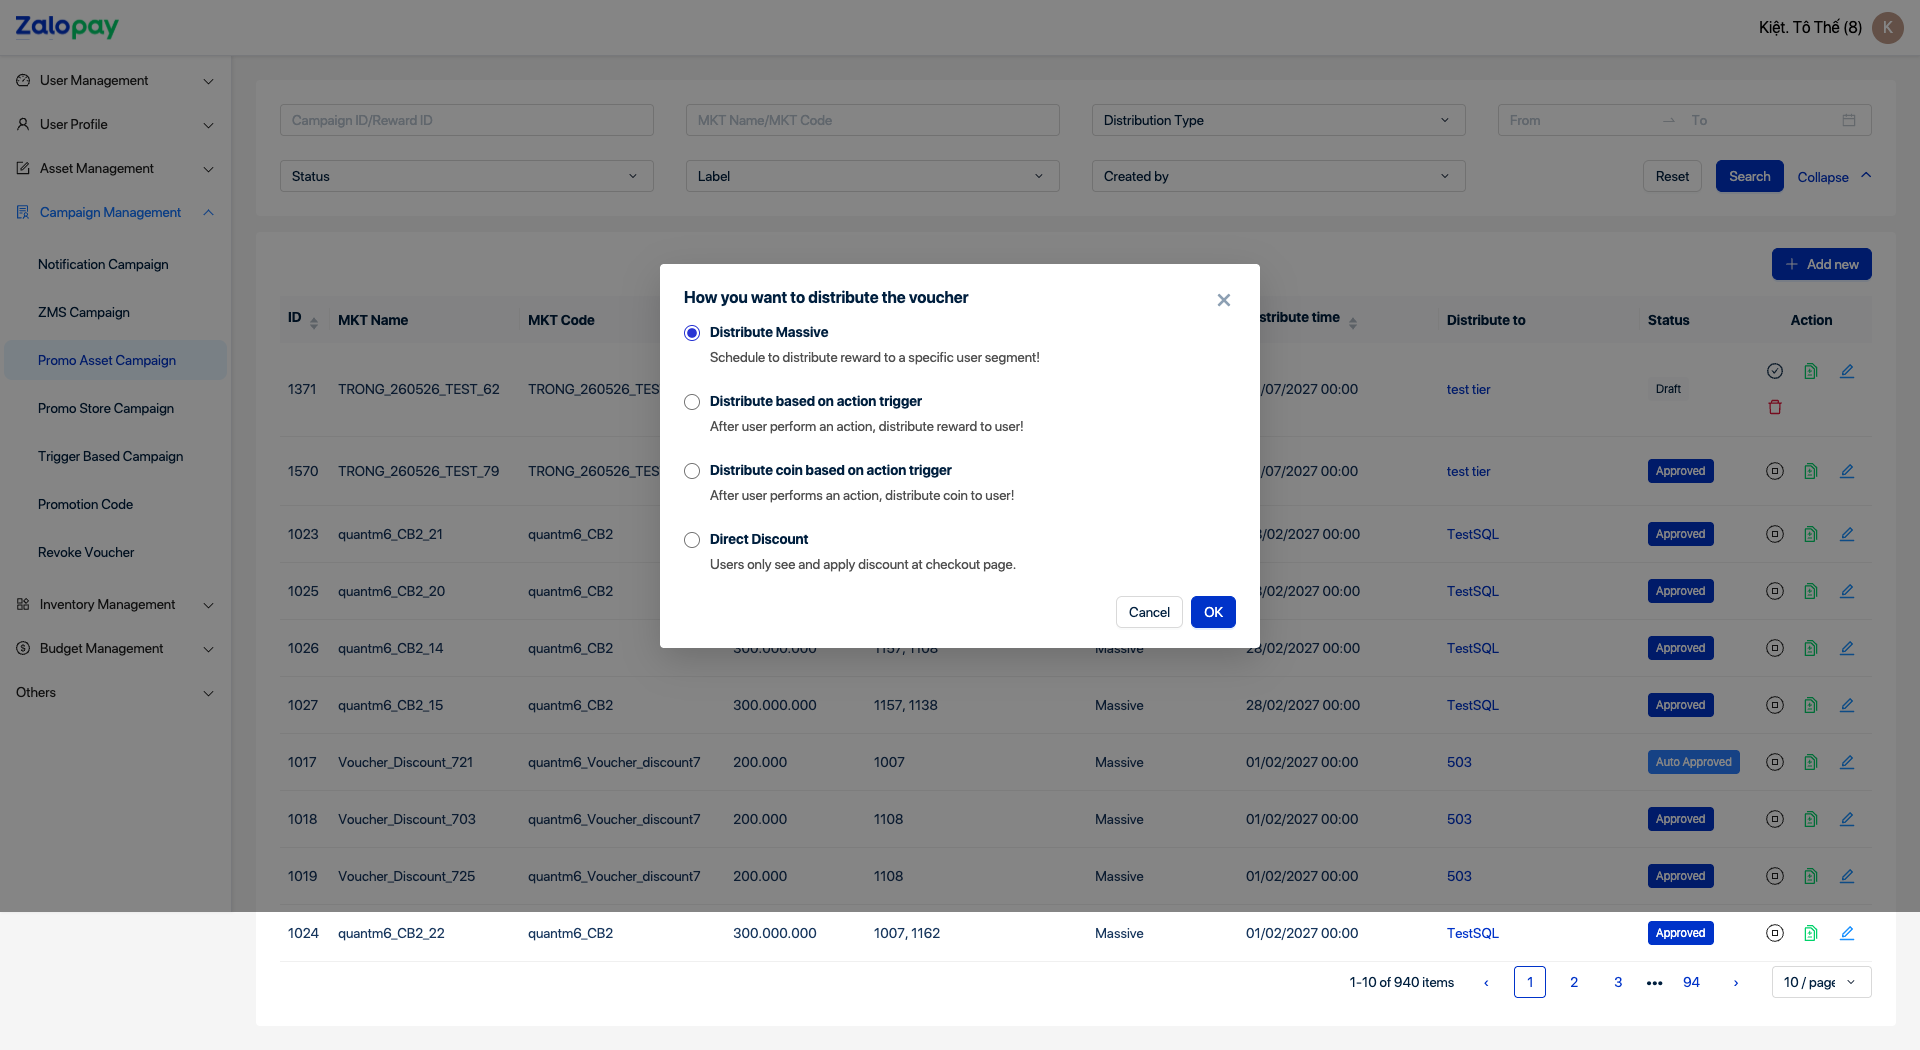
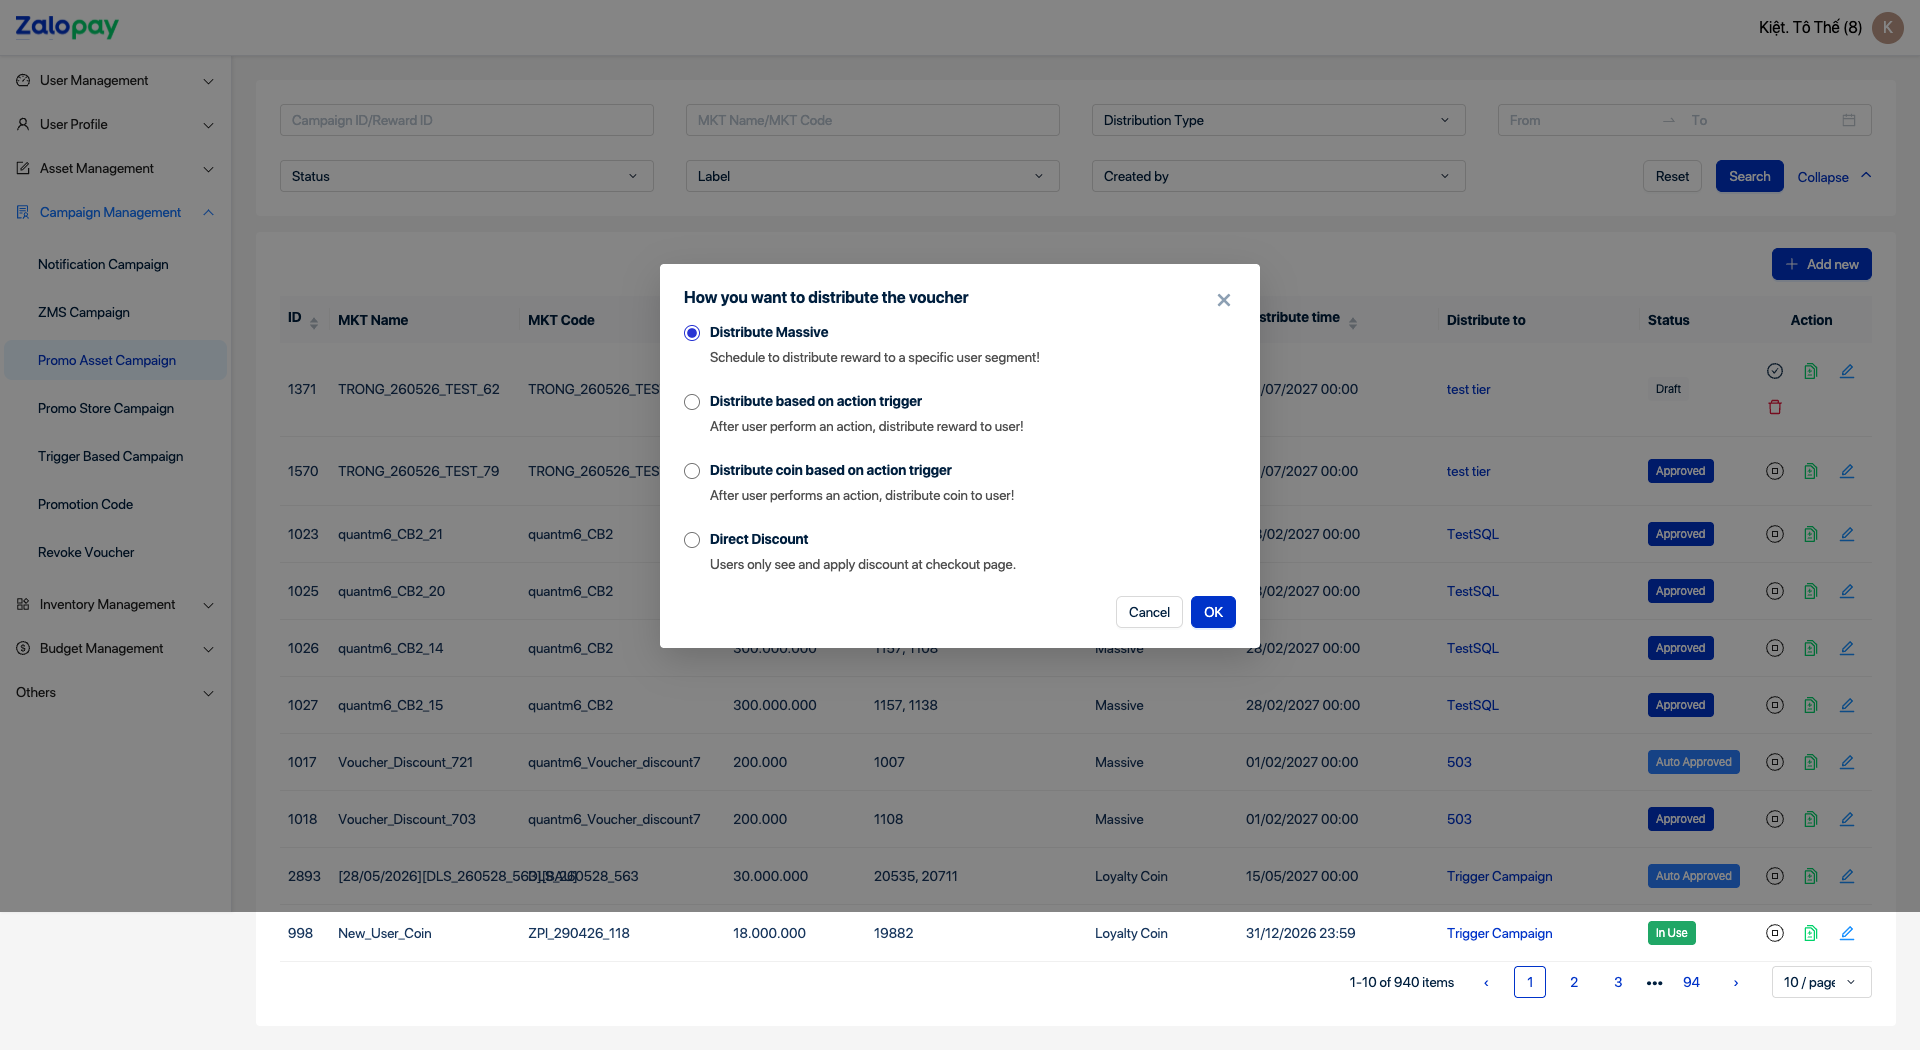
Add Loyalty Coin distribution type

diff --git a/index.html b/index.html
@@ -79,11 +79,11 @@
         <div class="asset-filter-grid" id="assetFilterGrid">
           <input id="assetFilterId" aria-label="Campaign ID hoặc Reward ID" placeholder="Campaign ID/Reward ID">
           <input id="assetFilterMkt" aria-label="MKT Name hoặc MKT Code" placeholder="MKT Name/MKT Code">
-          <select id="assetFilterType" aria-label="Distribution Type"><option value="">Distribution Type</option><option>Massive</option><option>Action trigger</option><option>Direct Discount</option></select>
+          <select id="assetFilterType" aria-label="Distribution Type"><option value="">Distribution Type</option><option>Massive</option><option>Trigger Base</option><option>Direct Discount</option><option>Loyalty Coin</option></select>
           <div class="asset-date-range" aria-label="Distribute time"><input id="assetFilterFrom" placeholder="From" aria-label="From"><span>→</span><input id="assetFilterTo" placeholder="To" aria-label="To"><span class="calendar-mark" aria-hidden="true"></span></div>
           <select id="assetFilterStatus" aria-label="Status"><option value="">Status</option><option>Draft</option><option>Approved</option><option>Auto Approved</option></select>
-          <select id="assetFilterLabel" aria-label="Label"><option value="">Label</option><option>ZPO</option><option>BAU</option></select>
-          <select id="assetFilterOwner" aria-label="Created by"><option value="">Created by</option><option>trongdd2</option><option>kiettt8</option><option>nghiatn</option></select>
+          <select id="assetFilterLabel" aria-label="Label"><option value="">Label</option><option>ZPO</option><option>BAU</option><option>Growth</option></select>
+          <select id="assetFilterOwner" aria-label="Created by"><option value="">Created by</option><option>trongdd2</option><option>kiettt8</option><option>nghiatn</option><option>linhnt22</option></select>
           <div class="asset-filter-actions">
             <button class="asset-btn secondary" id="assetResetFilter">Reset</button>
             <button class="asset-btn primary" id="assetSearchFilter">Search</button>

diff --git a/app.js b/app.js
@@ -56,8 +56,8 @@ const assetCampaigns = [
   { id: 1027, name: "quantm6_CB2_15", code: "quantm6_CB2", budget: 300000000, rewards: "1157, 1138", type: "Massive", time: "28/02/2027 00:00", target: "TestSQL", status: "Approved", label: "", owner: "nghiatn" },
   { id: 1017, name: "Voucher_Discount_721", code: "quantm6_Voucher_discount7", budget: 200000, rewards: "1007", type: "Massive", time: "01/02/2027 00:00", target: "503", status: "Auto Approved", label: "", owner: "nghiatn" },
   { id: 1018, name: "Voucher_Discount_703", code: "quantm6_Voucher_discount7", budget: 200000, rewards: "1108", type: "Massive", time: "01/02/2027 00:00", target: "503", status: "Approved", label: "", owner: "nghiatn" },
-  { id: 1019, name: "Voucher_Discount_725", code: "quantm6_Voucher_discount7", budget: 200000, rewards: "1108", type: "Massive", time: "01/02/2027 00:00", target: "503", status: "Approved", label: "", owner: "nghiatn" },
-  { id: 1024, name: "quantm6_CB2_22", code: "quantm6_CB2", budget: 300000000, rewards: "1007, 1162", type: "Massive", time: "01/02/2027 00:00", target: "TestSQL", status: "Approved", label: "", owner: "nghiatn" }
+  { id: 2893, name: "[28/05/2026][DLS_260528_563][BAU]", code: "DLS_260528_563", budget: 30000000, rewards: "20535, 20711", type: "Loyalty Coin", time: "15/05/2027 00:00", target: "Trigger Campaign", status: "Auto Approved", label: "BAU", owner: "kiettt8" },
+  { id: 998, name: "New_User_Coin", code: "ZPI_290426_118", budget: 18000000, rewards: "19882", type: "Loyalty Coin", time: "31/12/2026 23:59", target: "Trigger Campaign", status: "In Use", label: "Growth", owner: "linhnt22" }
 ];
 
 state.campaigns = state.campaigns.map((campaign, campaignIndex) => {
